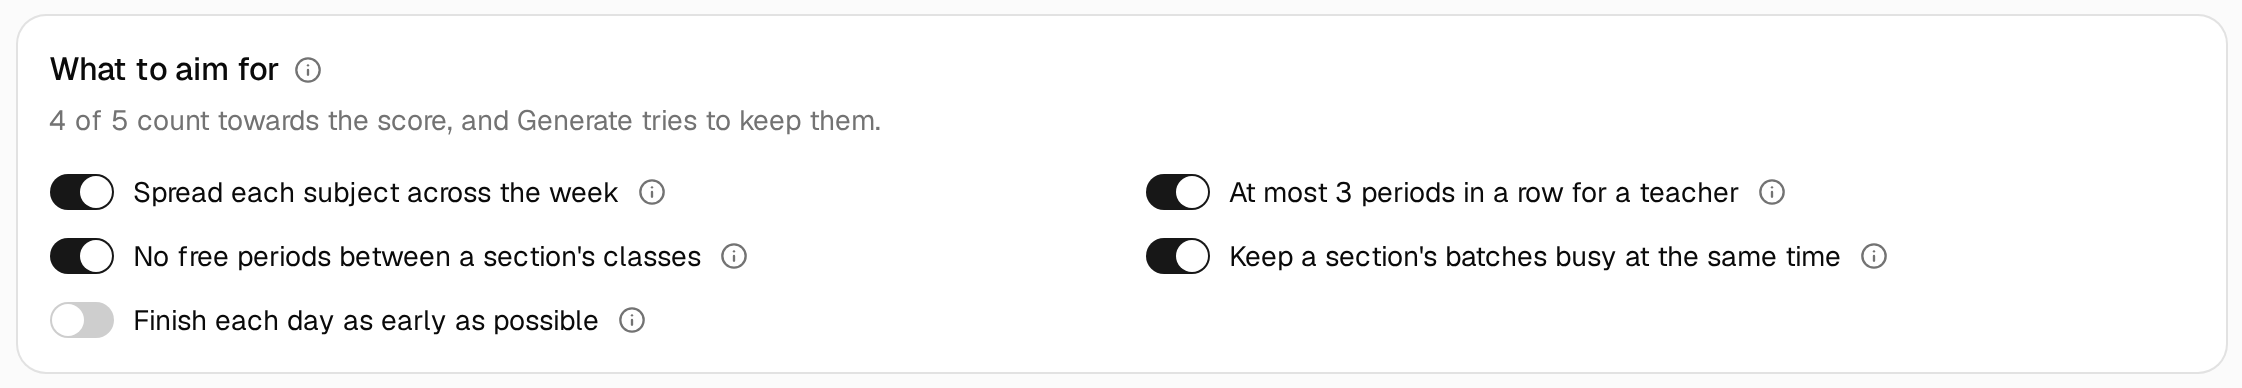
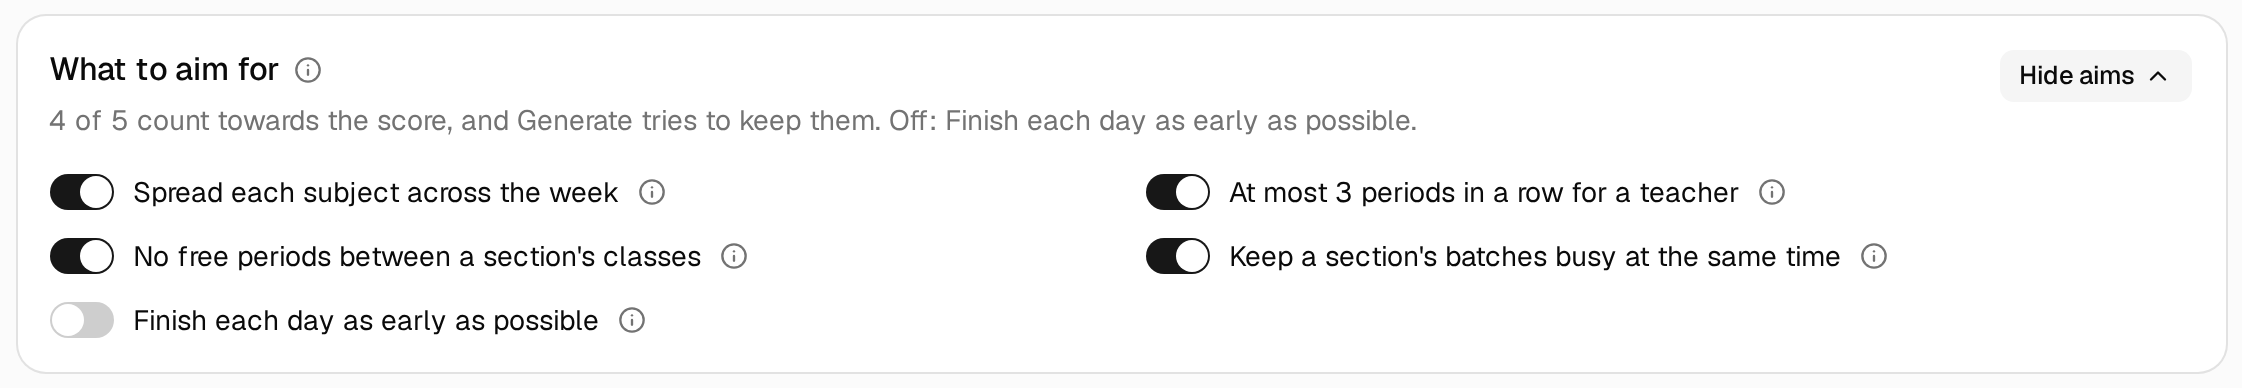
chore: fold step 3's aim switches away behind Show aims
The card names the aims that are off, so the folded state still says what Generate aims for.

Changed region(s): [[0.3747, 0.2784, 0.6244, 0.3402], [0.9054, 0.1546, 0.9679, 0.2165]]

diff --git a/web/src/features/generate/GenerateStep.tsx b/web/src/features/generate/GenerateStep.tsx
@@ -1,5 +1,5 @@
 import { useEffect, useMemo, useRef, useState } from "react";
-import { AlertTriangle, ArrowLeft, CircleCheck, CircleX, CloudOff, Info, Loader2, Lock, RefreshCw, Sparkles, Wand2, X } from "lucide-react";
+import { AlertTriangle, ArrowLeft, ChevronDown, CircleCheck, CircleX, CloudOff, Info, Loader2, Lock, RefreshCw, Sparkles, Wand2, X } from "lucide-react";
 import { cn } from "@/lib/utils";
 import { HelpLink } from "@/components/HelpLink";
 import { AskAboutButton } from "@/features/assistant/AssistantPanel";
@@ -80,10 +80,14 @@ interface Actions {
   cancel: () => void;
 }
 
-/** The soft rules as aims, one switch each (T54). A flip keeps the timetable and re-scores it at once. */
+/**
+ * The soft rules as aims, one switch each (T54). A flip keeps the timetable and re-scores it at once. The switches
+ * start folded away; the description says which aims are off.
+ */
 function AimsCard({ running }: { running: boolean }) {
   const softRules = useAppStore((s) => s.softRules);
   const setSoftRules = useAppStore((s) => s.setSoftRules);
+  const [open, setOpen] = useState(false);
   return (
     <Card>
       <CardHeader>
@@ -95,26 +99,34 @@ function AimsCard({ running }: { running: boolean }) {
           </InfoTip>
         </CardTitle>
         <CardDescription>{aimsSummary(softRules)}</CardDescription>
+        <CardAction>
+          <Button variant="ghost" size="sm" aria-expanded={open} aria-controls="aims-switches" onClick={() => setOpen(!open)}>
+            {open ? "Hide aims" : "Show aims"}
+            <ChevronDown className={cn("transition-transform", open && "rotate-180")} />
+          </Button>
+        </CardAction>
       </CardHeader>
-      <CardContent>
-        <ul className="grid gap-x-6 gap-y-3 text-sm md:grid-cols-2">
-          {aimRows(softRules).map((aim) => (
-            <li key={aim.key} className="flex items-center gap-2">
-              <label className={cn("flex items-center gap-2.5", running ? "cursor-not-allowed text-muted-foreground" : "cursor-pointer")}>
-                {/* The stock off track is near-white on a white card. */}
-                <Switch
-                  className="data-unchecked:bg-muted-foreground/35"
-                  checked={aim.on}
-                  disabled={running}
-                  onCheckedChange={(on) => setSoftRules({ ...softRules, [aim.key]: on })}
-                />
-                {aim.label}
-              </label>
-              <InfoTip more={helpHref("timetable", "score")}>{aim.tip}</InfoTip>
-            </li>
-          ))}
-        </ul>
-      </CardContent>
+      {open && (
+        <CardContent>
+          <ul id="aims-switches" className="grid gap-x-6 gap-y-3 text-sm md:grid-cols-2">
+            {aimRows(softRules).map((aim) => (
+              <li key={aim.key} className="flex items-center gap-2">
+                <label className={cn("flex items-center gap-2.5", running ? "cursor-not-allowed text-muted-foreground" : "cursor-pointer")}>
+                  {/* The stock off track is near-white on a white card. */}
+                  <Switch
+                    className="data-unchecked:bg-muted-foreground/35"
+                    checked={aim.on}
+                    disabled={running}
+                    onCheckedChange={(on) => setSoftRules({ ...softRules, [aim.key]: on })}
+                  />
+                  {aim.label}
+                </label>
+                <InfoTip more={helpHref("timetable", "score")}>{aim.tip}</InfoTip>
+              </li>
+            ))}
+          </ul>
+        </CardContent>
+      )}
     </Card>
   );
 }

diff --git a/web/src/features/generate/aims.ts b/web/src/features/generate/aims.ts
@@ -40,12 +40,13 @@ export function aimRows(softRules: Partial<SoftRules>): (Aim & { on: boolean })[
   return AIMS.map((a) => ({ ...a, on: on[a.key] }));
 }
 
-/** The card's description: how many aims are on. */
+/** The card's description: how many aims are on, and which are off, since the switches start folded away. */
 export function aimsSummary(softRules: Partial<SoftRules>): string {
-  const n = AIMS.filter((a) => fillSoftRules(softRules)[a.key]).length;
-  if (n === AIMS.length) return "All five count towards the score, and Generate tries to keep them.";
-  if (n === 0) return "None count: Generate only follows the hard rules.";
-  return `${n} of ${AIMS.length} count towards the score, and Generate tries to keep them.`;
+  const on = fillSoftRules(softRules);
+  const off = AIMS.filter((a) => !on[a.key]).map((a) => a.label);
+  if (off.length === 0) return "All five count towards the score, and Generate tries to keep them.";
+  if (off.length === AIMS.length) return "None count: Generate only follows the hard rules.";
+  return `${AIMS.length - off.length} of ${AIMS.length} count towards the score, and Generate tries to keep them. Off: ${off.join(", ")}.`;
 }
 
 export const sameRules = (a: Partial<SoftRules>, b: Partial<SoftRules>) => {

diff --git a/web/src/features/generate/aims.test.ts b/web/src/features/generate/aims.test.ts
@@ -53,6 +53,15 @@ describe("aimsSummary", () => {
     expect(aimsSummary(s5Off)).toMatch(/^4 of 5 count/);
     expect(aimsSummary({ s1: false, s2: false, s3: false, s4: false, s5: false })).toMatch(/^None count: Generate only follows the hard rules/);
   });
+
+  it("names the aims that are off, in S1–S5 order", () => {
+    expect(aimsSummary(s5Off)).toMatch(/Off: Finish each day as early as possible\.$/);
+    expect(aimsSummary({ ...allOn, s4: false, s1: false })).toMatch(
+      /^3 of 5 count .* Off: Spread each subject across the week, Keep a section's batches busy at the same time\.$/,
+    );
+    expect(aimsSummary(allOn)).not.toMatch(/Off:/);
+    expect(aimsSummary({})).toMatch(/Off: Finish each day/); // a missing switch is its default, and S5 starts off
+  });
 });
 
 describe("sameRules", () => {

diff --git a/web/scripts/help-shots.config.ts b/web/scripts/help-shots.config.ts
@@ -66,6 +66,7 @@ export const SHOTS: Shot[] = [
     start: "timetable",
     step: 2,
     solver: "online",
+    actions: [{ click: { role: "button", name: "Show aims" } }],
     capture: { css: '[data-slot="card"]', hasText: "What to aim for" },
   },
   {

diff --git a/FEATURES.md b/FEATURES.md
@@ -53,7 +53,7 @@ Changing any setting clears the current timetable and its locks, because placeme
 - **Server status.** The site checks the solver once as it opens, on any step, which wakes a sleeping server before step ③. A dot reads *Exact solver: online / offline* and is re-checked every 5 s; each check waits up to 5 s, long enough for a cold start. If the server runs a different contract version (`shared/contract.json`) or doesn't say which, step ③ shows a grey line under the dot's card: "The solver was updated at a different time from this page. Reload the page; if this stays, results may be wrong.", and the console logs both numbers. While it is offline an amber banner says a quick draft will be made in the browser instead (in dev builds it also shows the command that starts the server), and the main button reads **Make a quick draft**. When the server comes back the banner goes and the button returns to *Generate timetable*.
 - **Quick draft.** A heuristic in a Web Worker: it places the most constrained sessions first, restarts with different random seeds, then improves the result by moving and swapping sessions. On the sample it places all 210 sessions with score 18 in about 1.5 s (it uses at most 5 s).
 - **Before you start.** Section, teacher and room loads that exceed the week (from step ②'s checks) are listed above the button with a fix link each. They never block Generate.
-- **What to aim for.** A card above the Generate card with one switch per soft rule, phrased as an aim: *Spread each subject across the week* (S1), *At most 3 periods in a row for a teacher* (S2), *No free periods between a section's classes* (S3), *Keep a section's batches busy at the same time* (S4), *Finish each day as early as possible* (S5), each with an ⓘ giving its penalty and its name in the score. Flipping one keeps the timetable and locks, re-scores the timetable at once (steps ③ and ④), and shows "Preferences changed: regenerate to use them" next to the main button until the next run (or until the switches are flipped back). A flip by hand takes no undo step. The switches are disabled while a run is going.
+- **What to aim for.** A card above the Generate card with one switch per soft rule, phrased as an aim. The switches start folded away: the card shows how many aims count and names those that are off ("4 of 5 count towards the score… Off: Finish each day as early as possible."), and **Show aims** / **Hide aims** opens and closes the list (not remembered across reloads). The aims: *Spread each subject across the week* (S1), *At most 3 periods in a row for a teacher* (S2), *No free periods between a section's classes* (S3), *Keep a section's batches busy at the same time* (S4), *Finish each day as early as possible* (S5), each with an ⓘ giving its penalty and its name in the score. Flipping one keeps the timetable and locks, re-scores the timetable at once (steps ③ and ④), and shows "Preferences changed: regenerate to use them" next to the main button until the next run (or until the switches are flipped back). A flip by hand takes no undo step. The switches are disabled while a run is going.
 - **Time limit.** No setting: Generate gives the exact solver 20 s. While a run is going the button reads *Generating…* with "7 s of up to 20 s". When a *Try again with 40 s* or *Try longer: 40 s* run finishes with a timetable, later runs use that limit until a reload.
 - **Cancel.** **Cancel** next to *Generating…* (or *Regenerating…* in step ④) stops the run and never starts a quick draft; the previous timetable stays.
 - **One main button.** **Generate timetable** is the main button until a timetable exists; then **Next: View & export** takes over and Regenerate turns into an outlined button. **Next** stays disabled until there is a timetable and while a run is going. A finished run scrolls its result into view.

diff --git a/web/src/help/generate.md b/web/src/help/generate.md
@@ -4,7 +4,7 @@ How Lattice builds the timetable in step ③, and what to do when it can't.
 
 ## What to aim for {#aims}
 
-The first card in step ③ lists five aims, one switch each. They are the soft rules: things a timetable may do but shouldn't. Each aim that's on adds points to the [score](/help/timetable#score) when it's missed, and Generate looks for the timetable with the lowest score. The hard rules, such as no clashes and lunch for everyone, always apply and have no switch.
+The first card in step ③ holds five aims, one switch each. The switches are folded away to begin with: the card says how many aims count and names any that are off, and **Show aims** opens the list. They are the soft rules: things a timetable may do but shouldn't. Each aim that's on adds points to the [score](/help/timetable#score) when it's missed, and Generate looks for the timetable with the lowest score. The hard rules, such as no clashes and lunch for everyone, always apply and have no switch.
 
 | Aim | In the score |
 |---|---|
@@ -14,7 +14,7 @@ The first card in step ③ lists five aims, one switch each. They are the soft r
 | Keep a section's batches busy at the same time | Batches waiting during labs |
 | Finish each day as early as possible | Late finish |
 
-![The What to aim for card: five switches, the first four on and Finish each day as early as possible off, each with an ⓘ](/help/aims-card.png)
+![The What to aim for card opened: five switches, the first four on and Finish each day as early as possible off, each with an ⓘ](/help/aims-card.png)
 
 The first four are on to begin with, and *Finish each day as early as possible* is off. The ⓘ next to each says how many points it costs.
 

diff --git a/PROGRESS.md b/PROGRESS.md
@@ -105,6 +105,7 @@ Ticket status is in `tickets/`; this file records what actually works.
 - [T54] Help screenshots retaken, with a new `aims-card.png` in *What to aim for*; the shots' `/health` stub now sends the contract version, so step ③ shots no longer show "The solver was updated at a different time". The help's sample-score lines no longer give a number (it depends on T53). (`cd web && npm run help:shots`; a second run changes nothing.)
 - [T55] *Request a trial coupon* opens a dialog: *Open in Gmail* (compose in the browser's first Google account, `/mail/u/0/…&tf=cm`), *Open email app* (the mailto, first on touch screens), and To/Subject/Message rows with their own *Copy* and ✓; the "No email app?" line is gone; help and privacy wording updated (signed in as an institute admin without assistant access, open the assistant and click *Request a trial coupon*)
 - [chore] Help screenshots retaken after merging T53 and T54: `timetable-ready.png` scores 18 with Late finish *Off*, `aims-card.png` shows that switch off (the three dialog shots changed only in the page behind them); `/help/generate#aims` now says S5 starts off and why. T54's "flip it off and watch the score drop" above now reads: flip it on and watch it rise. (`cd web && npm run help:shots`; a second run changes nothing.)
+- [chore] Step ③'s *What to aim for* switches start folded away; the card names the aims that are off and **Show aims** opens the list (step ③)
 
 ## Known issues / cuts
 
